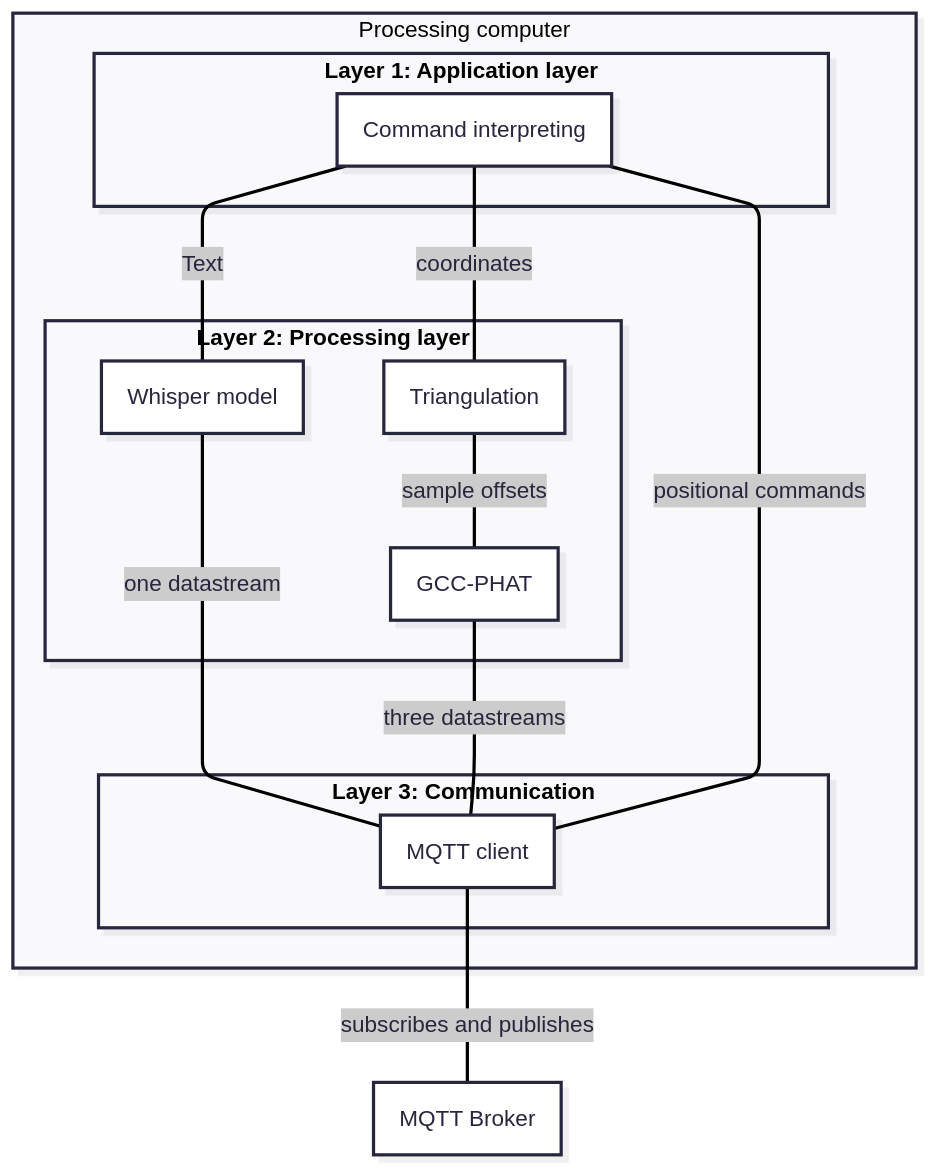
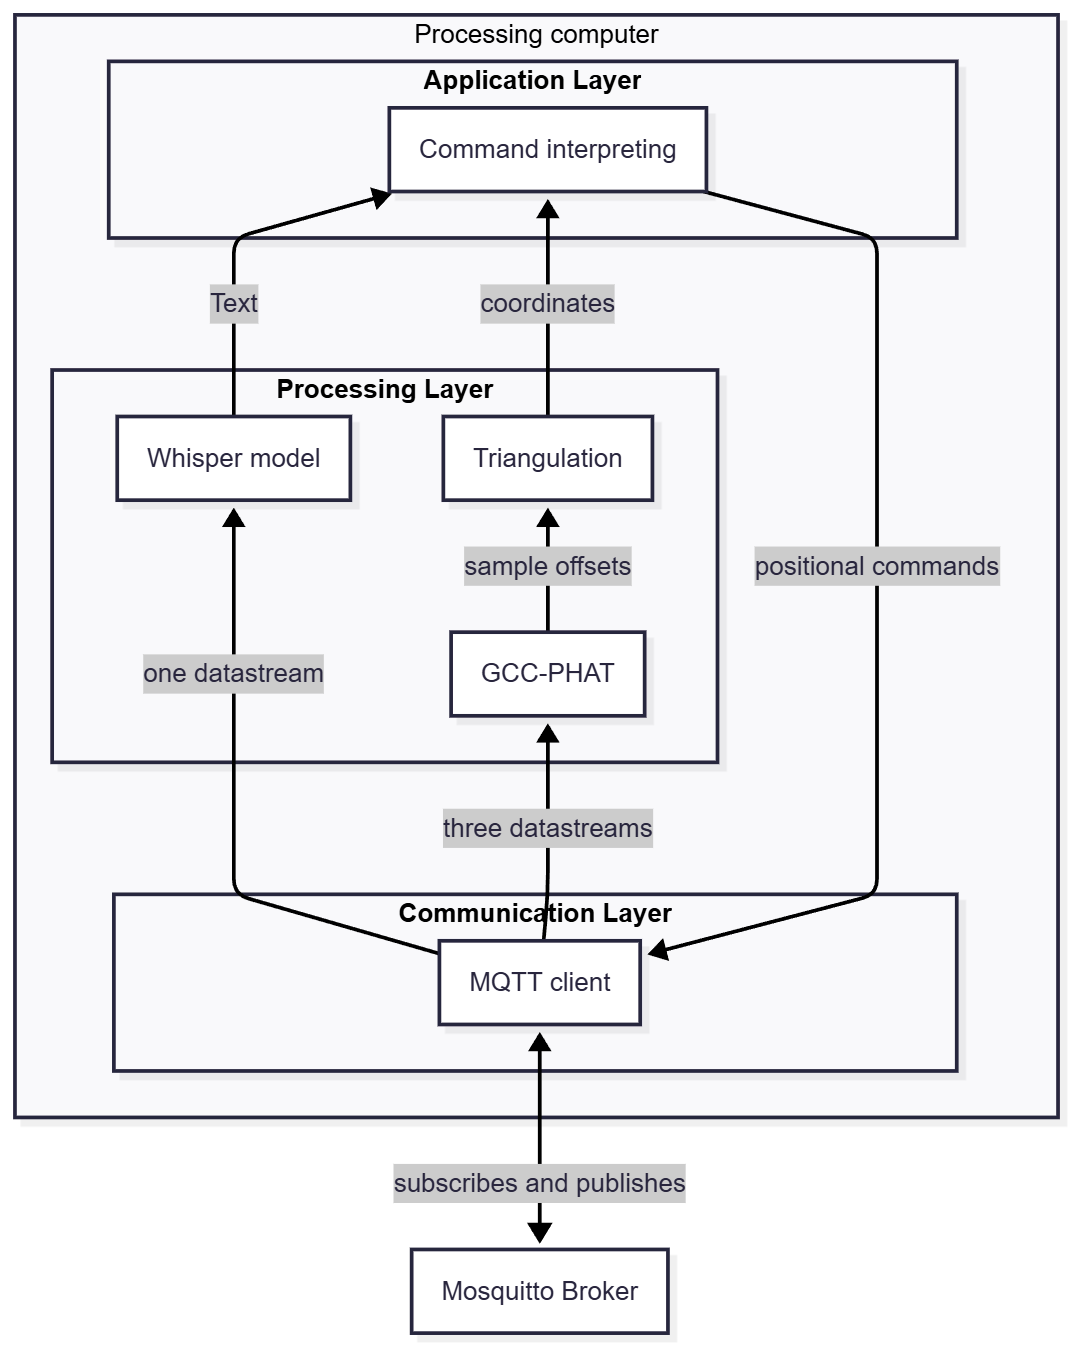
changed charts to have arrows, also looked at down to system setup

diff --git a/Sections/system_setup.tex b/Sections/system_setup.tex
@@ -1,106 +1,64 @@
 \section{System Setup}
 
-%\begin{figure}[H]
-%	\centering
-%	\includegraphics[width=1\linewidth]{Pictures/systemSetupDiagramMermaid.png}
-%	\caption{Overview of the system architecture divided into layers.}
-%	\label{fig:Hardware_and_comminication_overview}
-%\end{figure}
+The overall system architecture is divided into three main components: the PC, the Raspberry Pi onboard the Turtlebot, and the ESP32 microcontroller. Each component is structured into distinct functional layers. These layers are designed to interact only with the layers directly above or below them, ensuring modularity and a clear separation of responsibilities. The architecture comprises:
 
+A physical interface layer that handles direct communication with hardware components.
 
-%The system has three major components: the PC, the Raspberry Pi, and the ESP32, which can be seen in \cref{fig:Hardware_and_comminication_overview}. To easily communicate between devices, an MQTT broker is set up on the Raspberry Pi. MQTT (Message Queuing Telemetry Transport) is a lightweight messaging protocol running on the network layers and uses a publish–subscribe model, which is convenient for multiple devices to communicate with each other on the same network.
+A communication layer that manages data transfer between devices and internal processes.
 
-%To locate the sound source and record audio, an ESP32 microcontroller is used. It is mounted on top of the Turtlebot, and the three microphones are mounted in a triangular formation around the ESP32 with a distance of 44.5 cm from the base-frame zero point. The ESP32 is connected to the microphones via the I2S protocol, which allows for high-quality audio data transfer. The ESP32 is also connected to the WiFi network, allowing it to publish recorded audio data to the PC through the MQTT broker on the Raspberry Pi.
+A data processing layer for computation, data packaging, and transcription.
 
-%On the Raspberry Pi, ROS2 is pre-integrated with the Turtlebot, allowing easy control of the low-level hardware. The Raspberry Pi runs a ROS2 node that translates MQTT messages from the PC and publishes them on a ROS2 topic, which the Turtlebot node subscribes to. This enables the PC to send movement commands to the Turtlebot via MQTT. The Turtlebot node then converts those commands into motor commands and sends them via UART to the OpenCR board, which handles the low-level motor control.
-
-%The PC is used exclusively for heavy processing, including sound localization and speech-to-text. The PC takes audio segments of 1024 data points from the ESP32 via MQTT, processes them, and then sends movement commands to the Turtlebot through MQTT.
-
-% The overall system architecture allows for efficient communication and processing, enabling the Turtlebot to respond to voice commands and localize sound sources effectively.
-
-% The system architecture spans multiple layers, 
-
-% The lowest layer consists of the hardware components, including the Esperion mems microphones as well as the motors onboard the turtlebot. Onboard the ESP32 the microphones are interfaced using the I2S protocol, allowing for high-quality syncronised audio data transfer. Here the ESP32 acting as the control layer handles the raw audio data and sends it via MQTT to the PC for processing. Onboard the pc the audio is processed for the application layer, where the localization and command identifying is done.
-
-% The Onboard movement control accepts a speed and the program outputs a distance, an execution layer process translates the commands from the application layer into speed commands, 
-
-
-%Layered explanation
-
-%The system architecture spans multiple layers distributed over 3 devices: an ESP32 microcontroller, a Raspberry Pi onboard the Turtlebot, and a PC for heavy processing. This layered approach allows for efficient handling of data acquisition, processing, and command execution, where the layers only interact with the one above or below them. The architecture is illustrated in \cref{fig:Hardware_and_comminication_overview}.
-
-%The lowest layer, Layer 1, consists of the physical hardware components and communication protocols. Here a backend communications protocol of MQTT is used to facilitate communication between the three devices. Onboard the ESP32, the three microphones are interfaced using the I2S protocol, sharing 2 stereo channels for high-quality synchronised audio data. The ESP32 timestamps the audio data and publishes it via MQTT to the PC for processing. Onboard the Raspberry Pi, a MQTT-ROS bridge translates velocity commands from the PC into ROS2 messages that the Turtlebot can interpret. The Turtlebot's onboard OpenCR board handles low-level motor control based on these messages. 
-
-%The second layer, Layer 2, is responsible for data processing. On the PC, the audio data from the three microphones is processed for sound localisation using the GCC-PHAT algorithm, whilst one datastream is duplicated for transcription using OpenAI's Whisper model.
-
-%The highest layer, Layer 3, handles command identification and execution. The transcribed data from the Whisper model is analysed continuously for commands. When a command is identified, a corresponding action is determined based on the protocol logic, positional commands are then translated to velocity commands that are sent to the Turtlebot via MQTT for execution. If the command ``come here'' is given, the source of the sound is triangulated from the GCC-PHAT output, and a corresponding turn and drive command is calculated to move the Turtlebot to the speaker's position. The command is then sent to the Turtlebot via MQTT for execution.
-
-% en ide om layers i vores system @BigMagnus6Tips
-%1. Layer - application layer: Whisper, GCC\_PHAT, Triangulation, stringtocommand, ESP32\_mainfile, Raspberry\_MQTT\_2\_command\_pipeline
-
-%2. Layer - communication layer: MQTT, TCP(Transmission Control Protocol)/IP(Internet Protocol), UART (Universal Asynchronous Receiver-Transmitter)
-
-%3. Layer - physical/motor control: OpenCR (Open-source Control Module for ROS) board, WiFi signals
-
-%The core systems lie on the first layer and use the second layer to communicate, which in turn uses the third layer to actually transmit data. All three layers of the software architecture are used on every device. 
-
-The overall system architecture is divided into three main components: the PC, the Raspberry Pi onboard the Turtlebot, and the ESP32 microcontroller. Each component has its own layered architecture. The layers are designed to interact only with the layer directly above or below them, ensuring modularity and clear separation of responsibilities. The 4 layers consist of: \newline
-1. A physical interface layer that should handle direct communication with physical components. \newline
-2. A communication layer that manages data transfer between devices and processes. \newline
-3. A data processing layer, data packing and transcription. \newline
-4. An application layer that interprets processed data and makes decisions based on it.
+An application layer that interprets processed data and makes high-level decisions.
 
 \subsection{PC}
 
 \begin{figure}[H]
-	\centering
-	\includegraphics[width=0.7\linewidth]{Pictures/pc_system_setup.png}
-	\caption{Detailed overview of the PC layered system architecture.}
-	\label{fig:PC_system_overview}
+\centering
+\includegraphics[width=0.7\linewidth]{Pictures/pc_system_setup.png}
+\caption{Detailed overview of the PC layered system architecture.}
+\label{fig:PC_system_overview}
 \end{figure}
 
-The architecture of the PC spans 3 layers and is illustrated in \cref{fig:PC_system_overview}. The lowest layer, the communication layer, handles communication via an MQTT client that communicates with the MQTT broker hosted on the Turtlebot. The client subscribes to the audio data provided by the ESP32 and publishes positional commands for the Turtlebot. One data stream is used for transcription while all 3 data streams are used for sound localisation. 
+The PC's architecture, illustrated in \cref{fig:PC_system_overview}, spans the communication, processing, and application layers. At the base, the communication layer handles all network traffic via an MQTT client connected to the broker on the Turtlebot. This client subscribes to the audio data streams from the ESP32 and publishes movement commands for the Turtlebot. One microphone stream is dedicated to transcription, while all three are used for sound localization.
 
-The middle layer, the processing layer, processes the audio data. OpenAI's Whisper model is used for transcription, while the GCC-PHAT algorithm is used for sound localisation. Using the algorithm 3 TDOA (Time Difference of Arrival) values are calculated with which triangulation is performed to estimate the sound source's position. 
+In the processing layer, the received audio data is analyzed. OpenAI's Whisper model performs speech-to-text transcription, while the GCC-PHAT algorithm calculates the Time Difference of Arrival (TDOA) between microphone pairs. These TDOA values are used to triangulate the estimated position of the sound source.
 
-The transcribed text is then interpreted for commands on the application layer, and any identified voice command is translated into a positional command for the robot. If the command ``come here'' is given, the triangulated position is used to calculate a turn- and drive-command to move the Turtlebot towards the speaker's location.
+At the top, the application layer interprets the transcribed text for valid commands. When a command like "come here" is identified, it uses the triangulated sound source position to calculate a specific turn and drive command, which is then sent back down through the communication layer to the robot.
 
 \subsection{Turtlebot and Raspberry Pi}
 
 \begin{figure}[H]
-    \centering
-    \begin{subfigure}[b]{0.38\textwidth}
-        \centering
-        \includegraphics[width=\linewidth]{Pictures/rpi_system_setup.png}
-        \caption{Detailed overview of the Raspberry Pi layered system architecture.}
-        \label{fig:RPI_system_overview}
-    \end{subfigure}
-    \hfill
-    \begin{subfigure}[b]{0.38\textwidth}
-        \centering
-        \includegraphics[width=\linewidth]{Pictures/esp32_system_setup.png}
-        \caption{Detailed overview of the ESP32 layered system architecture.}
-        \label{fig:ESP32_system_overview}
-    \end{subfigure}
-    \caption{System architectures for Raspberry Pi and ESP32 devices.}
-    \label{fig:system_architectures}
+\centering
+\begin{subfigure}[b]{0.38\textwidth}
+\centering
+\includegraphics[width=\linewidth]{Pictures/rpi_system_setup.png}
+\caption{Detailed overview of the Raspberry Pi layered system architecture.}
+\label{fig:RPI_system_overview}
+\end{subfigure}
+\hfill
+\begin{subfigure}[b]{0.38\textwidth}
+\centering
+\includegraphics[width=\linewidth]{Pictures/esp32_system_setup.png}
+\caption{Detailed overview of the ESP32 layered system architecture.}
+\label{fig:ESP32_system_overview}
+\end{subfigure}
+\caption{System architectures for Raspberry Pi and ESP32 devices.}
+\label{fig:system_architectures}
 \end{figure}
 
-The Raspberry Pi similarly has a processing and communication layer. However, as the robot also has to control the motors, an additional physical interface layer is needed, while the application layer is not needed. The architecture of the Raspberry Pi is illustrated in \cref{fig:RPI_system_overview}.
+The Raspberry Pi manages the communication, processing, and physical interface layers, with the application layer handled by the PC. Its architecture is shown in \cref{fig:RPI_system_overview}.
 
-From the top, layer 2 is the processing layer. Here, a ROS2 node gets positional commands from the MQTT client in the communication layer and translates them into velocity commands that the turtlebot can interpret. Then the messages are published on a ROS2 topic. Furthermore, joint states from the Turtlebot are also read on a ROS2 topic and used for controlling the mortoes based on desired path.
+The processing layer contains a ROS2 node that translates positional commands received from the PC's MQTT client into velocity commands understandable by the Turtlebot. These commands are published on a ROS2 topic. This layer also subscribes to a ROS2 topic for joint state feedback from the robot, which is used for precise motion control.
 
-Layer 3 is the communication layer. Besides the MQTT client, that subscribes to positional commands from the PC, it also hosts the MQTT broker that all the clients are connected to. The velocity commands published on the ROS2 topic in the processing layer are picked up by the Turtlebot node, which forwards them via UART (Universal Asynchronous Receiver-Transmitter) to the OpenCR board for motor control, as well as reading joint states from the board and publishing them on a ROS2 topic for the processing layer to use.
+Beneath this, the communication layer hosts the central MQTT broker for the entire system and runs the MQTT client that subscribes to commands from the PC. The velocity commands published on the ROS2 topic are received by the Turtlebot's ROS2 node, which forwards them via UART (Universal Asynchronous Receiver-Transmitter) to the OpenCR control board. This layer also handles the reverse path for sensor data.
 
-The lowest layer, layer 4, is the physical interface layer. This is handled completely on the OpenCR board and is responsible for low-level motor control. The board handles the velocity commands sent from the Raspberry Pi and translates them into PWM (Pulse Width Modulation) signals for the motors to execute the desired movement.
+The foundational physical interface layer is managed by the OpenCR board. It receives the high-level velocity commands and performs low-level motor control, translating them into precise PWM (Pulse Width Modulation) signals to drive the wheels.
 
 \subsection{ESP32}
-The last device is the ESP32 microcontroller. As the ESP32 functions as an interface for all of the microphones, no application layer is involved. The architecture only spans the 3 lowest layers, as illustrated in \cref{fig:ESP32_system_overview}. 
-For sending the data from the ESP32 to the computer, the WiFi module on the ESP32 was originally used to send directly using MQTT, but it was found that this approach introduced a varying latency and inconsistency making the queue occasionally overflow. To solve this issue, SPI is used between the ESP32 and the Raspberry Pi, where the Pi then sends the data over MQTT to the computer. This gives a more consistent data transfer and moves the wireless communication to the Raspberry Pi. % It was found that the ESP32's ability to transfer data over MQTT wasn't sufficient, and therefore SPI (Serial-Peripheral-Interface) was used instead.
+The ESP32 serves as the interface for the microphone array and therefore implements only the physical interface, communication, and processing layers, as shown in \cref{fig:ESP32_system_overview}.
 
-On the physical interface layer, the ESP32 interfaces with the 3 microphones using the I2S protocol.
+The physical interface layer connects to the three microphones using the I2S protocol, which provides synchronized, high-quality audio sampling.
 
-On the communication layer, the ESP32 reads the audio data from the I2S DMA buffers and provides it for processing, and uses SPI to transmit the data to the Raspberry Pi
+In the communication layer, audio data is read from the I2S DMA (Direct Memory Access) buffers. Initially, this data was sent directly to the PC via the ESP32's Wi-Fi module using MQTT. However, this method introduced variable latency and occasional buffer overflows. To ensure consistent and reliable data transfer, the system was redesigned to use SPI (Serial Peripheral Interface) to send the audio data to the Raspberry Pi, which then forwards it via MQTT to the PC, moving the primary wireless communication burden to the more capable Raspberry Pi.
 
-On the processing layer the audio data is stamped, for keeping track of synchronisation on the PC.
-
+Within the processing layer, a timestamp is applied to each audio segment as it is packaged. This is critical for maintaining synchronization across the three channels during processing on the PC.

diff --git a/Sections/problem_analysis.tex b/Sections/problem_analysis.tex
@@ -1,11 +1,10 @@
 \section{Problem Analysis}
-For transcription of voice commands, a reliable and accurate speech recognition system is required. For this an AI solution is prefered due to the complexity and variability of human speech. OpenAI's Whisper model is chosen for this task, as it has the required capabilities and is open source, allowing for easy integration and customization. It has also scored as the high ends of speech recognition benchmarks, between different models testing their WER (Word Error Rate).
+For transcription of voice commands, a reliable and accurate speech recognition system is required. For this task, an AI solution is preferred due to the complexity and variability of human speech. OpenAI's Whisper model is chosen for this task, as it has the required capabilities and is open source, allowing for easy integration and customization. It has also scored at the high end of speech recognition benchmarks, in different models testing their WER (Word Error Rate).
 
-For sound localisation, a method to determine the direction of the sound source is needed. This requires multiple microphones set apart from one another. By using 3 microphones and comparing signals and finding the phase difference between them, the direction of the sound source can be estimated. For this the GCC-PHAT (Generalized Cross-Correlation with Phase Transform) algorithm is chosen, as it will offer robust performance in noisy environments. Using the speed of sound the position can then be estimated by triangulating from the phase differences.
+For sound localization, a method to determine the direction of the sound source is needed. This requires multiple microphones set apart from one another. By using 3 microphones and comparing signals to find the phase difference between them, the direction of the sound source can be estimated. For this, the GCC-PHAT (Generalized Cross-Correlation with Phase Transform) algorithm is chosen, as it offers robust performance in noisy environments. Using the speed of sound, the position can then be estimated by triangulating from the phase differences.
 
-As sound localisation needs multiple microphones, with the same clock to ensure synchronized sampling I2S microphones are used as they share a clock. The Raspberry Pi cannot handle more than one stereo channel of I2S (Inter-Integrated Circuit Sound) audio, so an ESP32 microcontroller will be needed to interface with the microphones and send the audio data as it has 2 stereo I2S interfaces, totalling 4 mono channels. The microphones can then be mounted on a 3D printed structure which can be used for triangulation.
+For sound localization, which requires multiple microphones synchronized to the same clock, I2S microphones are used, as they inherently share a clock signal. The Raspberry Pi cannot handle more than one stereo I2S (Inter-Integrated Circuit Sound) audio channel, so an ESP32 microcontroller is needed to interface with the microphones and send the audio data, as it has two stereo I2S interfaces, totaling four mono channels. The microphones can then be mounted on a 3D-printed structure, which provides the necessary fixed geometry for triangulation.
 
-Whilst Raspberry Pi and ESP32 are both on the robot, neither have the computational power to run the Whisper model in real-time. Therefore a seperate PC will be needed to handle the transcription and sound localisation processing.
+While both the Raspberry Pi and ESP32 are on the robot, neither has the computational power to run the Whisper model in real-time. Therefore, a separate PC will be needed to handle the transcription and sound localization processing. It is important that the pc is equipped with a capable GPU, as it can accellerate the AI model inference significantly, allowing for better real-time performance.
 
-
-Communication between the PC and the Raspberry Pi will be handled using MQTT (Message Queuing Telemetry Transport), a lightweight Pub-Sub messaging protocol as it was already in use for command transfer to the robot. The ESP32 do have a Wifi module and can therefore also use MQTT to send the audio date, but the efficiency and power of the wifi module on the ESP32 might not be enough to handle the audio streaming over wifi. If that is the case the both the ESP32 and the Raspberry pi is also mounted with different wired communication protocols allowing to transfer the audio data, where the Raspberry Pi then can send it over MQTT to the PC. While dedicated audio streaming protocols like RTP, RTSP or WebRTC exist, MQTT's simplicity and low overhead make it suitable for this project's needs.
+Communication between the PC and the Raspberry Pi will be handled using MQTT (Message Queuing Telemetry Transport), a lightweight pub-sub (publish-subscribe) messaging protocol, as it is already in use for command transfer to the robot. The ESP32 does have a Wi-Fi module and can therefore also use MQTT to send the audio data. However, the efficiency and throughput of the Wi-Fi module on the ESP32 might not be sufficient to handle the audio streaming. If that is the case, both the ESP32 and the Raspberry Pi are also equipped with different wired communication protocols, allowing the audio data to be transferred first to the Raspberry Pi, which can then forward it over MQTT to the PC. While dedicated audio streaming protocols like RTP, RTSP, or WebRTC exist, MQTT's simplicity and low overhead make it suitable for this project's needs.

diff --git a/Sections/introduction.tex b/Sections/introduction.tex
@@ -5,4 +5,4 @@ The primary objective of this project is to design and implement a system that a
 
 Furthermore, the robot should be capable of locating the source of the voice commands. This will enable the user to recall the robot to their location by simply calling out to it, further enhancing the interactivity and usability of the system. This requires sound localization capabilities, which is built in this project. This system could for example be implemented in workshop environments for retrieving or moving items.
 
-The robot should follow a layered software architecture, where different components handle specific tasks. Furthermore a communication protocol has be included to communicate between the different components.
+The robot should follow a layered software architecture, where different components handle specific tasks. Furthermore, a communication protocol has been included to communicate between the different components.
